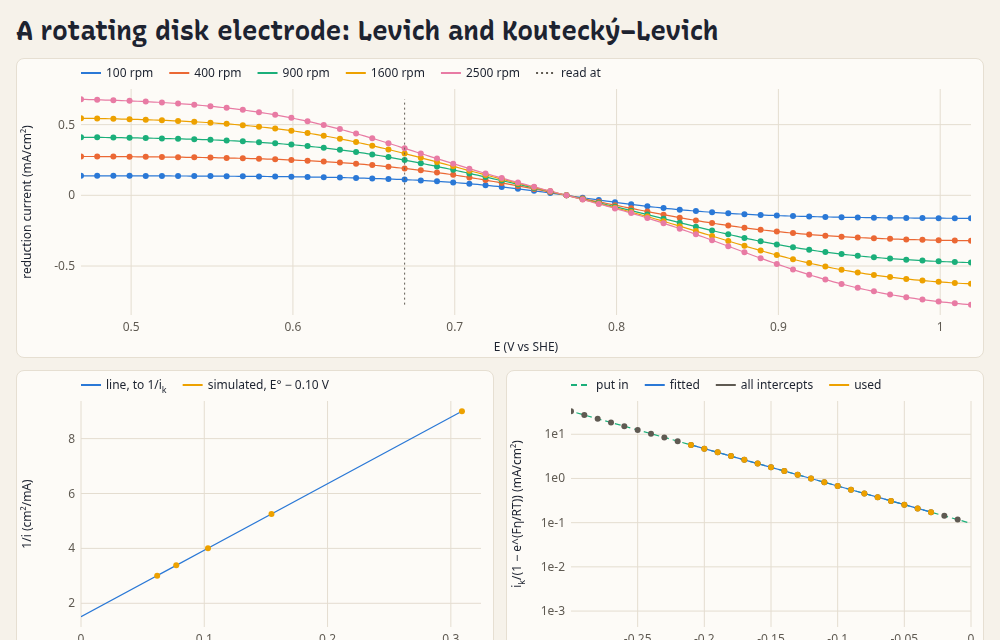
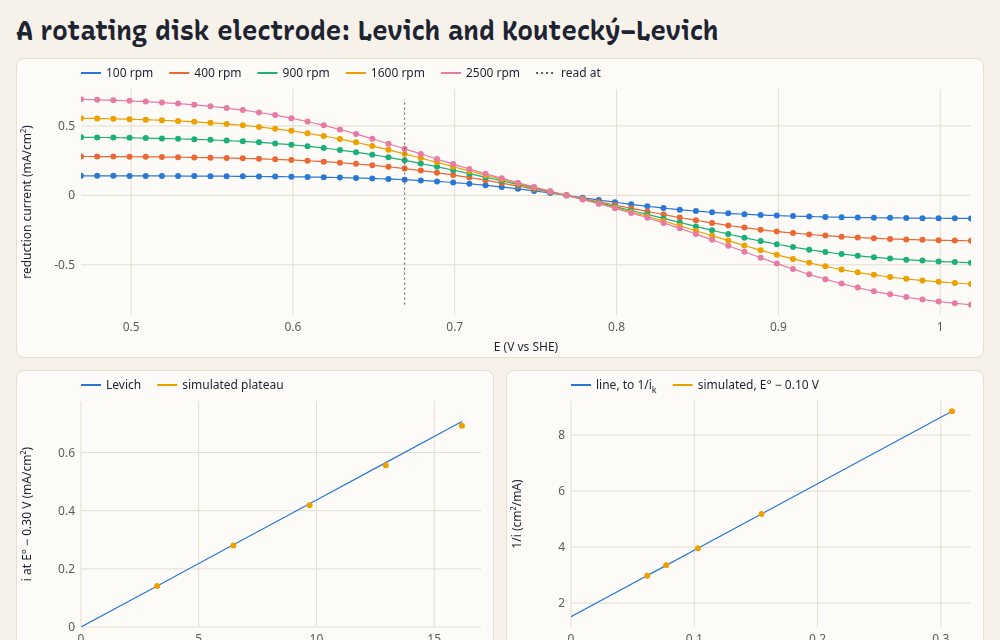
Rotating-disk page: after an open-brief review, the Levich plot, the KL law near E°, and what the ×10 cut is for
- A Levich plot (the plateau against ω^½), which bends where the kinetics are
  slow; the Koutecký–Levich law in its two-way form, its slope steeper near E°
  (the analysis was right; the stated equation wasn't); the corrected Tafel plot
  named (Allen–Hickling).
- The ×10 cut was presented as something the data show. The reviewer found the
  intercepts right far past it; with the solution now acidified they aren't:
  the simulation's own migration error grows in an intercept as about 0.2% of
  i_k over the plateau (2% at the cut, nearly half at 200×), as a measurement's
  would. The text says so, and the cut uses the simulated plateau.
- Acidified (0.1 M HCl), potentials on an ideal scale (E°′ in 1 M HCl nearer
  0.70 V), k⁰ led in cm/s, ν water's at 25 °C, Newman's ~3% on Levich, the
  shared layer's anodic plateau (1.19× where a real disk gives 1.12×), and the
  KL panel no longer reads 1/0 at E°.

diff --git a/demos/rde.html b/demos/rde.html
@@ -20,11 +20,11 @@
 <main>
 <nav class="site"><a class="brand" href="./"><svg viewBox="0 0 84 74" aria-hidden="true"><path class="mark-rail" d="M4 18 C 34 18, 46 20, 58 34 S 72 54, 80 54" stroke-width="5" stroke-linecap="round"/><path class="mark-rail" d="M4 34 C 34 34, 46 36, 58 50 S 72 70, 80 70" stroke-width="1.8" stroke-linecap="round" opacity="0.75"/><path class="mark-trail" d="M44.9 9.7 L38.9 6.1 M41.0 13.4 L32.8 8.5" stroke-width="1.8" stroke-linecap="round" opacity="0.6"/><circle class="mark-dot" cx="52.2" cy="17.1" r="6.2"/></svg>driftlet</a><a href="./">all demos</a><a href="https://github.com/markblundeberg/driftlet">source on GitHub</a></nav>
   <h1>A rotating disk electrode: Levich and Koutecký–Levich</h1>
-  <p>A platinum disk spinning in 1 mM Fe³⁺ and Fe²⁺ (in 1 M KCl): the steady current against potential at
-    five rotation rates, and the analysis an electrochemist would run on them, Koutecký–Levich plots to take
-    the transport out and a Tafel plot of what's left, which gives back the electrode's rate constant k⁰
-    and transfer coefficient α. Vary k⁰ and the potential the Koutecký–Levich plot is read at. (More about
-    the model below.)</p>
+  <p>A platinum disk spinning in 1 mM Fe³⁺ and Fe²⁺ (in 1 M KCl with 0.1 M HCl): the steady current against
+    potential at five rotation rates, and the analysis an electrochemist would run on them. The Levich plot
+    takes the limiting currents; Koutecký–Levich plots take the transport out; and a Tafel plot of what's
+    left gives back the electrode's rate constant k⁰ and transfer coefficient α. Vary k⁰ and the potential
+    the Koutecký–Levich plot is read at. (More about the model below.)</p>
   <div class="controls">
     <label>k⁰ <input id="k0" type="range" min="-4" max="0" step="0.25" value="-2"><output id="k0Out"></output></label>
     <label>E <input id="E" type="range" min="-0.3" max="0.1" step="0.01" value="-0.1"><output id="EOut"></output></label>
@@ -32,34 +32,47 @@
   </div>
   <div class="grid">
     <canvas class="wide" id="iv"></canvas>
+    <canvas id="levich"></canvas>
     <canvas id="kl"></canvas>
     <canvas id="tafel"></canvas>
-    <div class="levels wide" id="conc"></div>
+    <div class="levels" id="conc"></div>
   </div>
   <h2>About this simulation</h2>
   <p>A spinning disk pulls solution up to its face and flings it outward, and the flow thins the layer the
     ions must diffuse across to the same thickness everywhere on the disk, Levich's
-    δ = 1.61 D<sup>1/3</sup>ν<sup>1/6</sup>ω<sup>−1/2</sup>. So the limiting current grows as √ω (Levich's
-    equation), and at any potential the current is the kinetics and the transport in series:
-    1/i = 1/i<sub>k</sub> + 1/(Bω<sup>1/2</sup>), a straight line against ω<sup>−1/2</sup> whose intercept
-    is the current the electrode would pass with no transport limit at all. Those intercepts, one per
-    potential, make the Tafel plot: corrected for the back reaction (i<sub>k</sub>/(1 − e<sup>Fη/RT</sup>)
-    with equal Fe³⁺ and Fe²⁺), its slope is αF/RT and it meets η = 0 at Fk⁰c.</p>
-  <p>The page does that analysis on the simulated currents alone, as on measured ones: a straight-line fit
-    per potential across the five rotation rates, and a line through the corrected intercepts where they're
-    well determined (where the kinetic current is at most ten times the fastest disk's limiting current;
-    past that the intercept is the small difference of big numbers, as with real data). The readout gives
-    what comes back against what went in. With k⁰ large the wave is all transport, the intercepts sink
-    into that difference, and few points are left to fit: an electrode too fast for a disk
-    to measure.</p>
-  <p>The model stands one stagnant layer of Levich's thickness for Fe³⁺ in for the flow: the flux to the
-    disk is then exactly Levich's (the disk is uniformly accessible, so a layer of that thickness carries
-    the same flux), though the profile across it is a straight line where the real one curves. Fe²⁺'s
-    layer would be 6% thicker (δ goes as D<sup>1/3</sup>); here they share one. The lines are the exact
-    steady solution of this model, i = F(k<sub>f</sub>c − k<sub>b</sub>c)/(1 + k<sub>f</sub>δ/D<sub>O</sub> +
-    k<sub>b</sub>δ/D<sub>R</sub>), less migration, which the 1 M KCl keeps to 0.1% (it scales with the
-    iron's concentration, and the analysis puts it into the slopes: k⁰ comes back within 0.02%).
-    ν = 1 mm²/s, water's.</p>
+    δ = 1.61 D<sup>1/3</sup>ν<sup>1/6</sup>ω<sup>−1/2</sup>. So the limiting current grows as √ω: the
+    Levich plot, i<sub>lim</sub> against ω<sup>1/2</sup>, is a line through the origin whose slope gives D.
+    Where the kinetics are slow, even the plateau at E° − 0.30 V falls short of the limit, more so at the
+    faster rates, and the Levich plot bends (try a small k⁰). At any potential the current is the kinetics
+    and the transport in series, 1/i = 1/i<sub>k</sub> + (1/i<sub>l,c</sub> +
+    e<sup>Fη/RT</sup>/i<sub>l,a</sub>)/(1 − e<sup>Fη/RT</sup>), with i<sub>l,c</sub> and i<sub>l,a</sub> the
+    cathodic and anodic limiting currents, both as ω<sup>1/2</sup>. So 1/i against ω<sup>−1/2</sup> is a
+    straight line (the Koutecký–Levich plot), its slope Levich's toward the plateau and steeper near E°,
+    where the back reaction counts, and its intercept the current the electrode would pass with no
+    transport limit at all. Those intercepts, one per potential and corrected for the back reaction,
+    i<sub>k</sub>/(1 − e<sup>Fη/RT</sup>) with equal Fe³⁺ and Fe²⁺ (the Allen–Hickling form of the Tafel
+    plot), fall on a line of slope −αF/RT that meets η = 0 at the exchange current Fk⁰c.</p>
+  <p>The page runs that analysis on the simulated currents alone, as on measured ones: the plateaus for the
+    Levich plot, a straight-line fit per potential across the five rotation rates, and a line through the
+    corrected intercepts where i<sub>k</sub> is at most ten times the fastest disk's plateau. That cut is a
+    rule of thumb for real data: past it the intercept is the small difference of big numbers, and small
+    errors in the currents grow into large ones in i<sub>k</sub>. The simulation's own small error, the
+    migration the theory leaves out, grows the same way: its intercepts err by about 0.2% times
+    i<sub>k</sub> over the plateau, 2% at the cut and nearly half at 200 times (the grey points past the cut drift
+    off the line). So when k⁰ is large the readout calls the electrode too fast for the disk, and it's
+    right to. The readout gives what comes back against what went in.</p>
+  <p>The model stands one stagnant layer of Levich's thickness for Fe³⁺ in for the flow. The flux to the disk
+    is then Levich's (the disk is uniformly accessible), though the profile across the layer is a straight
+    line where the real one curves, and Levich's formula itself runs about 3% above a real disk at this
+    Schmidt number (Newman's correction). Fe²⁺'s layer would be 6% thicker (δ goes as D<sup>1/3</sup>);
+    here they share one, so the anodic plateau is 1.19 times the cathodic, where a real disk's would be 1.12.
+    The lines are the exact steady solution of this model, i = F(k<sub>f</sub>c −
+    k<sub>b</sub>c)/(1 + k<sub>f</sub>δ/D<sub>Fe³⁺</sub> + k<sub>b</sub>δ/D<sub>Fe²⁺</sub>), less migration,
+    which the supporting salt keeps to 0.1% (it scales with the iron's concentration). The line through the
+    intercepts inside the cut still gives k⁰ and α back within 0.05%. The solution is acidified, as Fe³⁺ must be (above
+    about pH 2 it hydrolyses and precipitates). The potentials are on an ideal-solution scale, from table
+    μ°: E° = 0.77 V, where the formal potential in 1 M HCl is nearer 0.70 V. k⁰ is in cm/s; driftlet's k0 is
+    that times its 1 M reference concentration. ν = 0.89 mm²/s, water's at 25 °C.</p>
 </main>
 <script type="module">
 import { Device, FARADAY, GAS_CONSTANT } from '../src/index.js';
@@ -69,9 +82,9 @@ import { profiles, showCode, fromQuery } from './common.js';
 
 const T = 298.15, VT = (GAS_CONSTANT * T) / FARADAY;
 const iron = half('Fe3+ + e- = Fe2+');
-const c = 1, alpha = 0.5, nu = 1e-6; // mol/m³ of each ion; m²/s, water's kinematic viscosity
+const c = 1, alpha = 0.5, nu = 0.89e-6; // mol/m³ of each ion; m²/s, water's kinematic viscosity at 25 °C
 const Do = IONS['Fe3+'].D, Dr = IONS['Fe2+'].D, E0 = (IONS['Fe3+'].mu0 - IONS['Fe2+'].mu0) / FARADAY;
-const bulk = { 'K+': 1000, 'Cl-': 1000 + 5 * c, 'Fe3+': c, 'Fe2+': c };
+const bulk = { 'K+': 1000, 'H+': 100, 'Cl-': 1100 + 5 * c, 'Fe3+': c, 'Fe2+': c }; // 1 M KCl, 0.1 M HCl
 const she = -(IONS['Cl-'].mu0 + GAS_CONSTANT * T * Math.log(bulk['Cl-'] / 1000)) / FARADAY; // the bath on the SHE scale
 const rpms = [100, 400, 900, 1600, 2500];
 const omega = (rpm) => (2 * Math.PI * rpm) / 60; // rad/s
@@ -79,7 +92,7 @@ const levich = (rpm) => (1.61 * Math.cbrt(Do) * Math.pow(nu, 1 / 6)) / Math.sqrt
 const disk = (E, rpm, k0) => {
   const L = levich(rpm);
   return build({
-    library: [aqueous(['K+', 'Cl-', 'Fe3+', 'Fe2+'], { epsr: 0 }), metal('Pt')],
+    library: [aqueous(['K+', 'H+', 'Cl-', 'Fe3+', 'Fe2+'], { epsr: 0 }), metal('Pt')],
     stack: [
       ohmic(E, ['e-']), // the disk's terminal
       layer('Pt', 1e-6),
@@ -115,11 +128,11 @@ function sweep(k0) {
   });
   const x = rpms.map((rpm) => 1 / Math.sqrt(omega(rpm)));
   const kl = Es.map((E, k) => ({ E, ...fit(x, I.map((row) => 1 / row[k])) }));
-  const jlim = (FARADAY * Do * c) / levich(rpms.at(-1));
-  const used = kl.filter((p) => E0 - p.E > 0.02 && p.a > 0 && 1 / p.a < 10 * jlim); // cathodic, and well determined
+  const plateau = I.map((row) => row.at(-1)); // at E° − 0.30 V, for the Levich plot
+  const used = kl.filter((p) => E0 - p.E > 0.02 && p.a > 0 && 1 / p.a < 10 * plateau.at(-1)); // cathodic, and i_k at most 10× the fastest plateau
   const tafel = used.length >= 2 ? fit(used.map((p) => p.E - E0), used.map((p) => Math.log(1 / p.a / -Math.expm1((p.E - E0) / VT)))) : null;
   const back = tafel && { alpha: -tafel.b * VT, k0: (Math.exp(tafel.a) / (FARADAY * c)) * 1000 };
-  return { k0, I, x, kl, used, tafel, back };
+  return { k0, I, x, kl, plateau, used, tafel, back };
 }
 
 // (All above runs without a page: test/demos.test.js checks this theory against the simulation.)
@@ -129,7 +142,7 @@ for (const el of [k0In, EIn]) fromQuery(el);
 const k0 = () => 10 ** +k0In.value;
 let run;
 const labels = () => {
-  document.getElementById('k0Out').textContent = `${k0().toPrecision(2)} mol/(m²·s) (${(k0() / 10).toPrecision(2)} cm/s)`;
+  document.getElementById('k0Out').textContent = `${(k0() / 10).toPrecision(2)} cm/s (k0 ${k0().toPrecision(2)} mol/(m²·s))`;
   document.getElementById('EOut').textContent = `E° ${+EIn.value < 0 ? '−' : '+'} ${Math.abs(+EIn.value).toFixed(2)} V`;
 };
 function rebuild() {
@@ -139,12 +152,14 @@ function rebuild() {
 const mA = (j) => j / 10; // A/m² to mA/cm²
 function update() {
   labels();
-  const { I, x, kl, used, tafel, back } = run;
-  const at = kl.reduce((best, p) => (Math.abs(p.E - E0 - +EIn.value) < Math.abs(best.E - E0 - +EIn.value) ? p : best));
+  const { I, x, kl, plateau, used, tafel, back } = run;
+  // (at E° itself the current is zero, and 1/i means nothing: read just below it)
+  const want = Math.abs(+EIn.value) < 0.005 ? -0.01 : +EIn.value;
+  const at = kl.reduce((best, p) => (Math.abs(p.E - E0 - want) < Math.abs(best.E - E0 - want) ? p : best));
   const k = kl.indexOf(at);
   document.getElementById('status').textContent = back
-    ? `back from the analysis (${used.length} potentials): k⁰ ${back.k0.toPrecision(3)} mol/(m²·s), α ${back.alpha.toFixed(3)}; put in: ${k0().toPrecision(3)}, ${alpha}`
-    : 'too fast for the disk: no potential has a well-determined kinetic current';
+    ? `back from the analysis (${used.length} potentials): k⁰ ${(back.k0 / 10).toPrecision(3)} cm/s, α ${back.alpha.toFixed(3)}; put in: ${(k0() / 10).toPrecision(3)}, ${alpha}`
+    : `too fast for the disk, by the ×10 rule: ${used.length === 0 ? 'no potential' : 'only one potential'} has a kinetic current within it`;
   const Et = Array.from({ length: 221 }, (_, j) => E0 + 0.25 - 0.0025 * j);
   chart(document.getElementById('iv'), {
     xlabel: 'E (V vs SHE)', ylabel: 'reduction current (mA/cm²)',
@@ -152,6 +167,15 @@ function update() {
       ...rpms.map((rpm, r) => ({ x: Et, y: Et.map((E) => mA(theory(E, rpm, k0()))), color: colors[r], width: 1.2, label: `${rpm} rpm` })),
       ...rpms.map((rpm, r) => ({ x: Es, y: I[r].map(mA), color: colors[r], marker: true, width: 0 })),
       { x: [at.E, at.E], y: [mA(Math.min(...I.flat())), mA(Math.max(...I.flat()))], color: 'var(--muted)', width: 1, dash: [2, 3], label: 'read at' },
+    ],
+  });
+  // Levich: the plateau at E° − 0.30 V against ω^{1/2}, and Levich's line, F D c/δ.
+  const sq = rpms.map((rpm) => Math.sqrt(omega(rpm))), sqs = [0, ...sq];
+  chart(document.getElementById('levich'), {
+    xlabel: 'ω¹ᐟ² (s⁻¹ᐟ²)', ylabel: 'i at E° − 0.30 V (mA/cm²)', xlim: [0, 1.05 * Math.max(...sq)], ylim: [0, 1.1 * mA((FARADAY * Do * c) / levich(rpms.at(-1)))],
+    series: [
+      { x: sqs, y: sqs.map((w) => mA((FARADAY * Do * c * w) / ((1.61 * Math.cbrt(Do) * Math.pow(nu, 1 / 6))))), color: colors[0], width: 1.2, label: 'Levich' },
+      { x: sq, y: plateau.map(mA), color: colors[3], marker: true, width: 0, label: 'simulated plateau' },
     ],
   });
   // Koutecký–Levich: 1/i against ω^{-1/2} at the potential read, with its line out to the axis.
@@ -179,8 +203,8 @@ function update() {
   // The profiles across the slowest disk's layer, at the potential read.
   profiles(document.getElementById('conc'), new Device(disk(at.E, rpms[0], k0())).solve(), {
     species: ['Fe3+', 'Fe2+'],
-    title: `across the ${rpms[0]} rpm disk's layer at E° ${at.E < E0 ? '−' : '+'} ${Math.abs(at.E - E0).toFixed(2)} V (at ${rpms.at(-1)} rpm it's ${(levich(rpms.at(-1)) * 1e6).toFixed(1)} µm thick)`,
-    ylabel: 'concentration (mM)', range: [0, 2.1],
+    title: `the ${rpms[0]} rpm disk's layer, E° ${at.E < E0 ? '−' : '+'} ${Math.abs(at.E - E0).toFixed(2)} V`,
+    ylabel: 'concentration (mM)', range: [0, 2.1], width: 360, height: 300,
   });
 }
 k0In.addEventListener('change', rebuild);

diff --git a/test/demos.test.js b/test/demos.test.js
@@ -228,7 +228,7 @@ test("demos/steps.html: Cottrell's and Sand's theory is the simulation's, as the
 });
 
 test('demos/rde.html: the Koutecký–Levich and Tafel analysis gives back k⁰ and α, as the page says', async () => {
-  const { sweep, theory, rpms, Es } = await pageTheory('rde.html', ['sweep', 'theory', 'rpms', 'Es']);
+  const { sweep, theory, rpms, Es, Do, Dr, nu } = await pageTheory('rde.html', ['sweep', 'theory', 'rpms', 'Es', 'Do', 'Dr', 'nu']);
   for (const k0 of [1e-4, 1e-2, 0.3]) {
     const run = sweep(k0);
     let worst = 0;
@@ -236,12 +236,23 @@ test('demos/rde.html: the Koutecký–Levich and Tafel analysis gives back k⁰ 
       const th = theory(E, rpm, k0);
       if (Math.abs(th) > 1e-2) worst = Math.max(worst, Math.abs(run.I[r][k] / th - 1));
     }));
-    // "less migration, which the 1 M KCl keeps to 0.1%"; "k⁰ comes back within 0.02%"
-    assert.ok(worst < 1.2e-3, `k⁰ ${k0}: the currents within ${worst} of the theory`);
-    assert.ok(run.used.length >= 3 && Math.abs(run.back.k0 / k0 - 1) < 3e-4 && Math.abs(run.back.alpha - 0.5) < 5e-4, `k⁰ ${k0}: back ${JSON.stringify(run.back)} from ${run.used.length}`);
+    // "less migration, which the supporting salt keeps to 0.1%"; "k⁰ and α come back within 0.05%"
+    assert.ok(worst < 1e-3, `k⁰ ${k0}: the currents within ${worst} of the theory`);
+    assert.ok(run.used.length >= 3 && Math.abs(run.back.k0 / k0 - 1) < 5e-4 && Math.abs(run.back.alpha / 0.5 - 1) < 5e-4, `k⁰ ${k0}: back ${JSON.stringify(run.back)} from ${run.used.length}`);
   }
-  // "an electrode too fast for a disk to measure"
+  // "too fast for the disk, by the ×10 rule"; "its intercepts err by about 0.2% times i_k over the plateau"
   assert.equal(sweep(1).used.length, 0);
+  const mid = sweep(0.1), lim = mid.plateau.at(-1);
+  const past = mid.kl.filter((p) => p.E < Es[0] - 0.27).map((p) => {
+    const ik = theory(p.E, 1e9, 0.1);
+    return [ik / lim, Math.abs(1 / p.a / ik - 1)];
+  }).filter(([q]) => q > 3);
+  const near = (q0) => past.reduce((best, r) => (Math.abs(Math.log(r[0] / q0)) < Math.abs(Math.log(best[0] / q0)) ? r : best));
+  assert.ok(past.filter(([q]) => q <= 100).every(([q, e]) => e / q > 1.5e-3 && e / q < 2.5e-3), JSON.stringify(past));
+  assert.ok(Math.abs(near(10)[1] - 0.02) < 0.005 && near(200)[1] > 0.35 && near(200)[1] < 0.55, `${near(10)}, ${near(200)}`);
+  // "about 3% above a real disk at this Schmidt number (Newman's correction)"; "1.19 times ... a real disk's would be 1.12"
+  const sc = nu / Do, newman = 1 + 0.298 * Math.cbrt(1 / sc) + 0.14514 * Math.cbrt(1 / (sc * sc));
+  assert.ok(Math.abs(newman - 1.03) < 0.005 && Math.abs(Dr / Do - 1.19) < 0.005 && Math.abs(Math.cbrt((Dr / Do) * (Dr / Do)) - 1.12) < 0.005, `${newman}, ${Dr / Do}`);
 });
 
 test('demos/randles.html: the Randles circuit, from the physics, is the simulated spectrum, as the page says', async () => {
